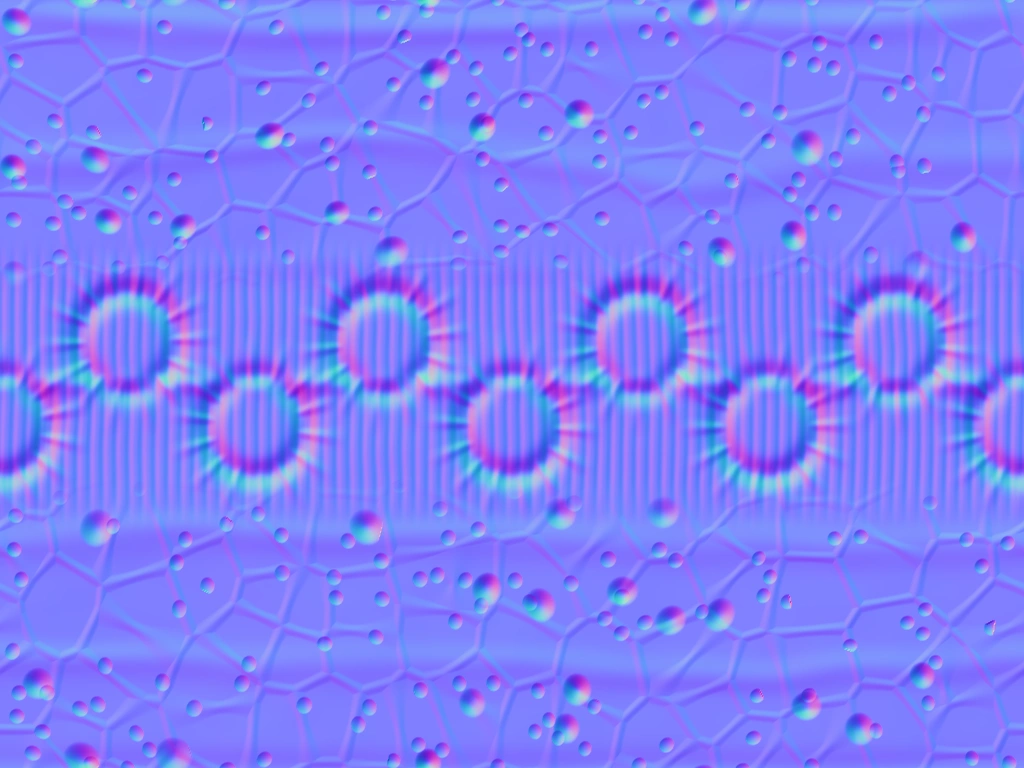
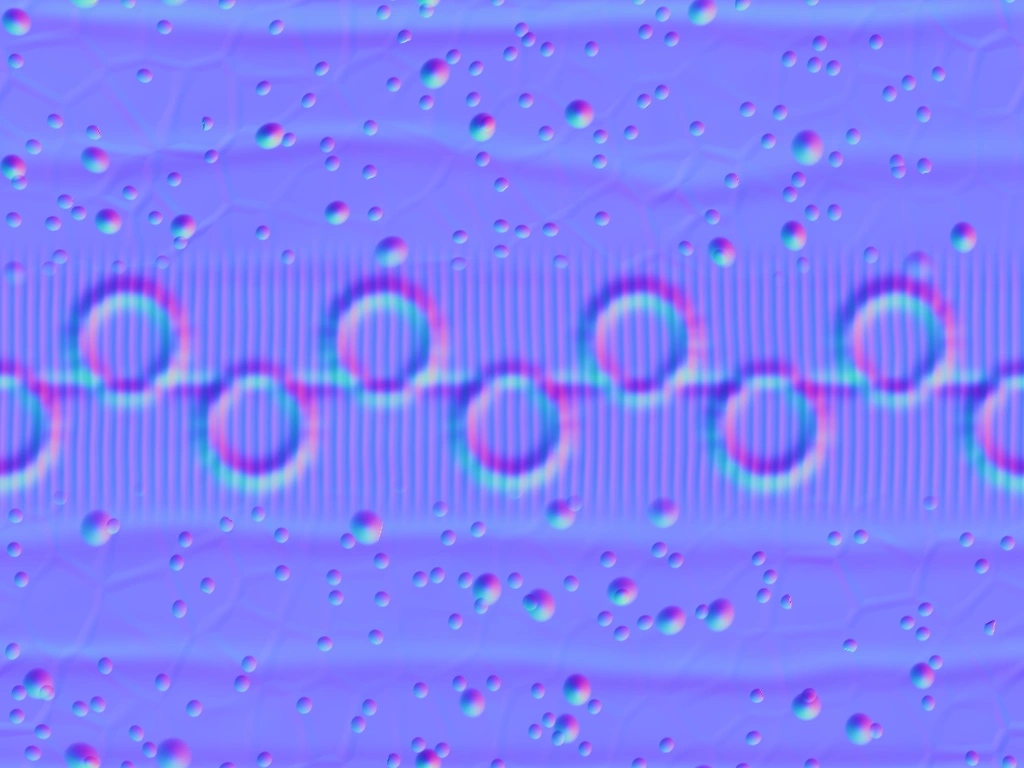
sculpt2: offline lantern seats, strip socket/net toning, tighter sucker hide, README for the additive pipeline extensions

diff --git a/src/entities/sleeper/hoarderSculpt.js b/src/entities/sleeper/hoarderSculpt.js
@@ -425,7 +425,7 @@ function armStrip() {
         if (d < sd) sd = d;
         if (d < 2.4) {
           col += Math.exp(-(((d - 1.15) / 0.28) ** 2));
-          crease += (1 - sst(1.3, 2.3, d)) * sst(0.9, 1.3, d) * Math.pow(Math.abs(Math.sin(Math.atan2(dv, du) * 7 + su * 40)), 6);
+          crease += (1 - sst(1.3, 2.0, d)) * sst(0.95, 1.3, d) * Math.pow(Math.abs(Math.sin(Math.atan2(dv, du) * 5 + su * 40 + 2 * N.fbm(u, v, 8, 6, 2))), 4) * 0.5;
         }
       }
       // the oral furrow between the rows, fine transverse wrinkles over the oral face
@@ -440,14 +440,14 @@ function armStrip() {
       N.cells(wu, wv, 40, 22, 0.9, 2, cp, Lv / Lu * 40 / 22);
       const pap = cp.id < 0.3 ? Math.max(0, 1 - (cp.f1 / 0.28) ** 2) : 0;
       N.cells(wu, wv, 18, 11, 0.95, 3, cc, Lv / Lu * 18 / 11);
-      const net = (1 - sst(0.0, 0.22, cc.f2 - cc.f1)) * (0.6 + 0.4 * N.fbm(u, v, 8, 6, 2));
+      const net = (1 - sst(0.0, 0.30, cc.f2 - cc.f1)) * (0.3 + 0.7 * sst(0.4, 0.8, N.fbm(u, v, 6, 4, 3)));
       const crest = Math.exp(-(((wrapd(v) * Lv) / 0.12) ** 2));
       const flankFold = Math.pow(Math.abs(Math.sin(v * TAU * 3 + 1.7 * N.fbm(u, v, 3, 4, 3))), 12) * (1 - oral);
       const lump = N.fbm(u, v, 3, 3, 4);
       S.oral = oral; S.dors = dors; S.col = col; S.crease = crease; S.furrow = furrow; S.wart = wart * (1 - oral); S.pap = pap * (1 - oral);
       S.net = net * (1 - oral); S.sd = sd; S.crest = crest;
       S.blot = sst(0.52, 0.62, N.fbm(u + 0.2, v, 5, 3, 4));
-      S.h = 0.06 * (lump - 0.5) + (1 - oral) * (0.07 * wart * wart + 0.022 * pap - 0.010 * net) + 0.02 * crest
+      S.h = 0.06 * (lump - 0.5) + (1 - oral) * (0.07 * wart * wart + 0.022 * pap - 0.006 * net) + 0.02 * crest
         - 0.02 * flankFold + oral * (0.010 * wr - 0.04 * furrow) + 0.085 * col - 0.02 * crease;
       S.ph = photoStrip(u, v, N, cs, Lu, Lv) * dors;
     },
@@ -459,10 +459,10 @@ function armStrip() {
       for (let i = 0; i < 3; i++) {
         c[i] *= 0.85 + 0.3 * mot2;
         c[i] += ([0.58, 0.44, 0.38][i] - c[i]) * (S.wart * 0.7 + S.pap * 0.4);
-        c[i] *= 1 - 0.28 * S.net;
+        c[i] *= 1 - 0.18 * S.net;
         c[i] = c[i] * (1 - 0.45 * S.blot * (1 - S.oral)) + 0.02 * S.blot;
-        c[i] += ([0.74, 0.60, 0.55][i] - c[i]) * Math.min(1, S.col * 0.8) * S.oral;
-        c[i] *= 1 - 0.35 * S.crease - 0.3 * S.furrow;
+        c[i] += ([0.70, 0.58, 0.54][i] - c[i]) * Math.min(1, S.col * 0.45) * S.oral;
+        c[i] *= 1 - 0.2 * S.crease - 0.3 * S.furrow;
         c[i] += ([0.40, 0.38, 0.52][i] - c[i]) * S.ph * 0.6;
         c[i] *= 0.45 + 0.55 * S.ao;
       }
@@ -479,6 +479,25 @@ function photoStrip(u, v, N, out, Lu, Lv) {
   return 1 - sst(0.10, 0.16, out.f1);
 }
 
+// the caught lanterns' seats: a ray from outside (along `out`) back onto the full sculpt
+export const LANTERN_SEATS = [
+  [[-0.7, 0.7, 0.1], [-0.62, 0.55, 0.0]],                  // the left shoulder, in the chain
+  [[0.5, 0.6, 0.5], [0.52, -0.40, 0.56]],                  // the web, front right
+  [[-0.4, 0.6, -0.5], [-0.52, -0.46, -0.40]]               // the web, back left
+];
+function lanternSeats(spec) {
+  const f = compile(spec).f, out = [];
+  for (const [o, at] of LANTERN_SEATS) {
+    const d = norm(o);
+    let t = 0, p = add(at, d, 1.5);
+    for (let i = 0; i < 300; i++) { const v = f(p[0], p[1], p[2]); if (v < 1e-4) break; t += v * 0.8; p = add(add(at, d, 1.5), d, -t); if (t > 3) { p = null; break; } }
+    if (!p) continue;
+    const e = 0.004, n = norm([f(p[0] + e, p[1], p[2]) - f(p[0] - e, p[1], p[2]), f(p[0], p[1] + e, p[2]) - f(p[0], p[1] - e, p[2]), f(p[0], p[1], p[2] + e) - f(p[0], p[1], p[2] - e)]);
+    out.push({ p: p.map(v => +v.toFixed(4)), n: n.map(v => +v.toFixed(4)) });
+  }
+  return out;
+}
+
 // ---- the offline pipeline (tools/blender) -----------------------------------------------------
 export function pipeline() {
   return {
@@ -491,7 +510,7 @@ export function pipeline() {
       { name: 'sucker', set: 'sucker', sdf: suckerSpec(), hi: { h: 0.008 }, lo: { h: 0.035, tris: 360, err: 0.1 }, paint: SUCKER_PAINT, kEps: 0.03, ao: { r: 0.2, n: 4 }, cage: 0.04, ray: 0.12 }
     ],
     strips: [armStrip()],
-    meta: { eyeAt: EYE_AT, siphon: SIPHON, armPairs: ARM_PAIRS, armSV: ARM_SV, suckK: SUCK_K }
+    meta: { eyeAt: EYE_AT, siphon: SIPHON, armPairs: ARM_PAIRS, armSV: ARM_SV, suckK: SUCK_K, get lanterns() { return lanternSeats(mantleSpec()); } }
   };
 }
 

diff --git a/src/entities/sleeper/hoarder.js b/src/entities/sleeper/hoarder.js
@@ -49,7 +49,7 @@ import { loadSculpted, assetTextures, assetGeos } from '../../lib/assets.js';
 // Loaded off the boot's critical path (a short idle delay after import); makeHoarder
 // installs it if it has landed and otherwise upgrades the procedural Orune in place when it
 // does. A failed load leaves the procedural build — nothing else changes.
-let SCULPT = null, SC = null;
+let SCULPT = null, SC = null, LANTERN_GEO = null;
 function sculpt() {
   if (!SCULPT) { SCULPT = loadSculpted('assets/sleepers/hoarder/', 'hoarder'); SCULPT.then(a => { SC = a; }); }
   return SCULPT;
@@ -136,7 +136,7 @@ export function makeHoarder(idx, cfg) {
     reach: 5, collR: Rm * 0.85, flare: 0, dormant: true, rise: 0, riseE: 0, riseTarget: 0,
     yawV: 0, crawl: 0, blinkT: 9, blinkN: 3, look: { y: { x: 0, v: 0 }, p: { x: 0, v: 0 }, ty: 0, tp: 0, next: 0 }, brPh: 0, cloudPh: 0, mood: 0, armsInit: false,
     pos: V3(), yaw: 0, bodyY: 0, head: V3(), spine: [V3(), V3(), V3(), V3()], sigils: [], arms: [],
-    grab: null, lashCd: 3, _pd: 1e9, suckK: 0.27, suckSink: 0, lidK: 1.25, lidKb: 1.25, sculpted: false
+    grab: null, lashCd: 3, _pd: 1e9, suckK: 0.27, suckSink: 0, hideK: 1, lidK: 1.25, lidKb: 1.25, sculpted: false
   };
 
   // ---- skin ----
@@ -435,25 +435,19 @@ function installSculpt(L, A) {
   L.suckers.material = sm;
   L.suckK = meta.suckK || 0.34;
   L.suckSink = 0.09;                       // the stalk sits down in its collar
+  // the strip bakes a socket under every station, so a hidden sucker leaves an empty socket:
+  // hide only those truly inside the sculpt (the old test was a generous ellipsoid)
+  L.hideK = 0.62;
   old.dispose();
   L.skin = bodyMat; L.skinM = armMat;
   // THE HOARD SHE WEARS: drowned lanterns tangled in her — two caught in the web between
   // her arm roots, one snagged where the trawler's chain is grown into her shoulder. Dead
   // (sooted glass, no flame): the lit ones are in the hoard. Seated by a ray onto the sculpt.
-  const lp = G.lanternParts();
-  const ray = new THREE.Raycaster(), probe = new THREE.Mesh(g.mantle);
-  // a ray from outside (along `out` from `at`) back onto the skin: the lantern seats where it hits
-  const seat = (out, at) => {
-    const o = new THREE.Vector3(...out).normalize();
-    ray.set(new THREE.Vector3(...at).addScaledVector(o, 3), o.clone().negate());
-    const h = ray.intersectObject(probe, false)[0];
-    return h ? { p: h.point, n: h.face.normal.clone() } : null;
-  };
-  const S = [
-    seat([-0.7, 0.7, 0.1], [-0.62, 0.55, 0.0]),                    // the left shoulder, in the chain
-    seat([0.6, -0.3, 0.55], [0.62, -0.50, 0.60]),                  // the web, front right
-    seat([-0.5, -0.3, -0.6], [-0.50, -0.50, -0.45])                // the web, back left
-  ].filter(Boolean);
+  // (seats are computed offline on the full SDF: hoarderSculpt LANTERN_SEATS -> meta)
+  if (!LANTERN_GEO) LANTERN_GEO = G.lanternParts();
+  const lp = LANTERN_GEO;
+  L.keepGeo.add(lp.brass); L.keepGeo.add(lp.glass);
+  const S = (meta.lanterns || []).map(h => ({ p: new THREE.Vector3(...h.p), n: new THREE.Vector3(...h.n) }));
   const brassM = registerPaint(new THREE.MeshStandardMaterial({ color: 0x8a6a3a, vertexColors: true, roughness: 0.6, metalness: 0.65, envMap: envTex, envMapIntensity: 0.45 }));
   const glassM = registerPaint(new THREE.MeshStandardMaterial({ color: 0x3a342a, vertexColors: true, roughness: 0.12, metalness: 0, envMap: envTex, envMapIntensity: 1.0 }));
   // (the flame lathe rides in the glass geometry: dead lanterns show it as a dark stub)
@@ -700,7 +694,7 @@ function poseHoarder(L, dt, player) {
       _q.setFromUnitVectors(_yp, _u);
       // a sucker whose seat is inside the mantle (the arm roots arch up through it) is hidden
       _l.copy(_p).applyMatrix4(_mi);
-      const inside = (_l.x / 0.86) ** 2 + ((_l.y - 0.1) / 0.75) ** 2 + ((_l.z + 0.15) / 1.05) ** 2 < 1;
+      const inside = (_l.x / 0.86) ** 2 + ((_l.y - 0.1) / 0.75) ** 2 + ((_l.z + 0.15) / 1.05) ** 2 < L.hideK;
       const sz = inside ? 0 : r * L.suckK;
       L.suckers.setMatrixAt(si++, _m.compose(_p, _q, _s.set(sz, sz, sz)));
     }

diff --git a/tools/blender/README.md b/tools/blender/README.md
@@ -73,3 +73,25 @@ export function pipeline() {
   Blender output under neutral light).
 
 Build scratch (`.build/`) is gitignored; the outputs under `assets/` are committed.
+
+## Additive extensions (sculpt2: Orune + Mhor)
+
+All optional; a creature that uses none of them builds exactly as before.
+
+- **Emissive** — a piece may carry `emit: S => 0..1` (S: x, y, z, nx, ny, nz of each high
+  vertex). export_hi writes a second painted high (`<piece>_hiE.ply`); bake.py bakes it
+  (EMIT, through the same cage) into the **ORM's blue** channel, which used to be 0. The
+  game reads it by patching `emissivemap_fragment` to `emissiveColor.bbb` with the ORM as
+  the emissive map (gated `smoothstep(0.08, 0.3, b)` so half-res chart edges never glow).
+- **Paint mask `['fn', S => 0..1]`** (sculpt.js) — a creature's own analytic placement
+  (photophore stations, lens rims) usable in any paint layer.
+- **Strips** (`strip.mjs`) — `pipeline().strips: [{ name, W, H, Lu, Lv, field, paint, ao }]`:
+  tileable heightfield bakes for geometry that must stay procedural (verlet arm tubes).
+  u along the tube, v once round it; exactly periodic by construction. Normals are in the
+  frame three derives from the mesh uv (tangent x = +u, y = +v; no tangent attribute),
+  maps load flipY = false, ORM as above. Written as `<strip>_albedo/normal/orm.webp` and
+  listed in the meta's `sets` with `strip: true` (the game sets RepeatWrapping).
+  Orune's arm strip keys u to the sucker stations (one tile = 4 pairs), Mhor's arm strip
+  to his (7 pairs), his tentacles are conformal (du = ds len / (Lu r)).
+- `meta` values may be getters (JSON.stringify evaluates them at export): Orune's caught
+  lanterns are seated there by marching the full SDF, so the game does no raycasts.
